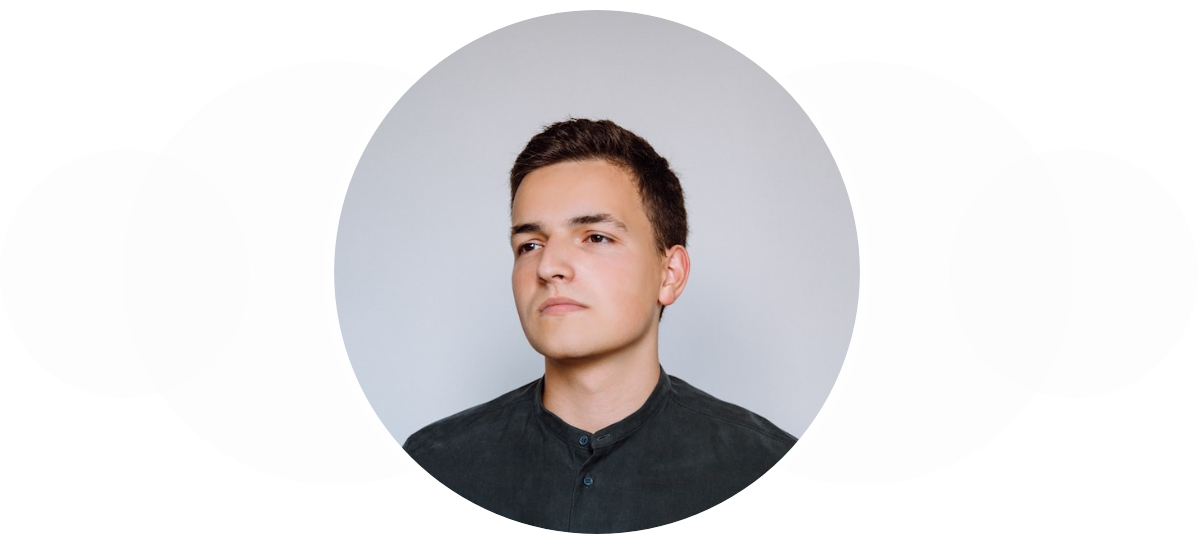
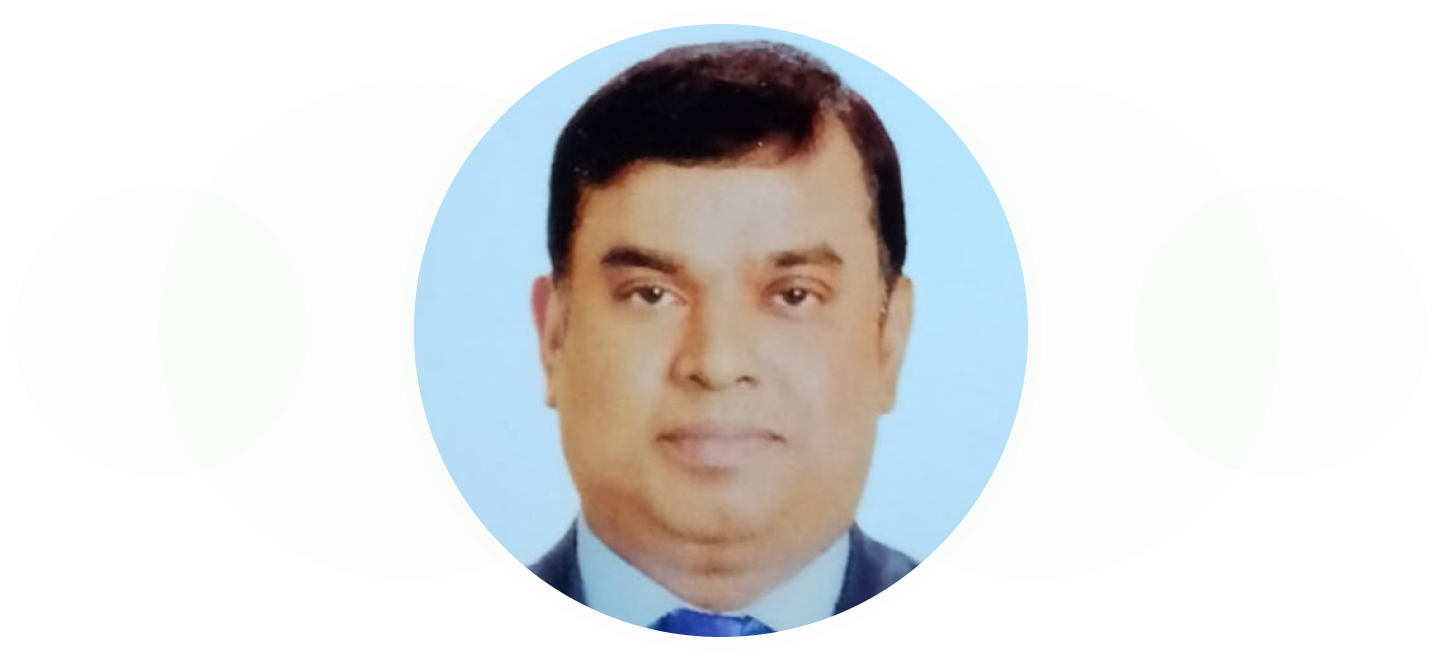
update

diff --git a/UCAS-Family.html b/UCAS-Family.html
@@ -81,7 +81,7 @@
 							<span>View Details</span>
 						</div>
 						<div class="imgWrapper">
-							<img src="https://via.placeholder.com/500">
+							<img src="images/team/MD%20Sir.jpg">
 						</div>
 						<div class="textWrapper">
 							<h5 class="name">Mahbub H Mazumdar FCMA</h5>

diff --git a/js/turn/realEstateErpBrochure.js b/js/turn/realEstateErpBrochure.js
@@ -50,7 +50,7 @@ function loadPage(page, pageElement) {
 
 	img.attr('src', 'brochure/realEstateErp/' +  page + '.jpg');
 
-	loadRegions(page, pageElement);
+	// loadRegions(page, pageElement);
 
 }
 
